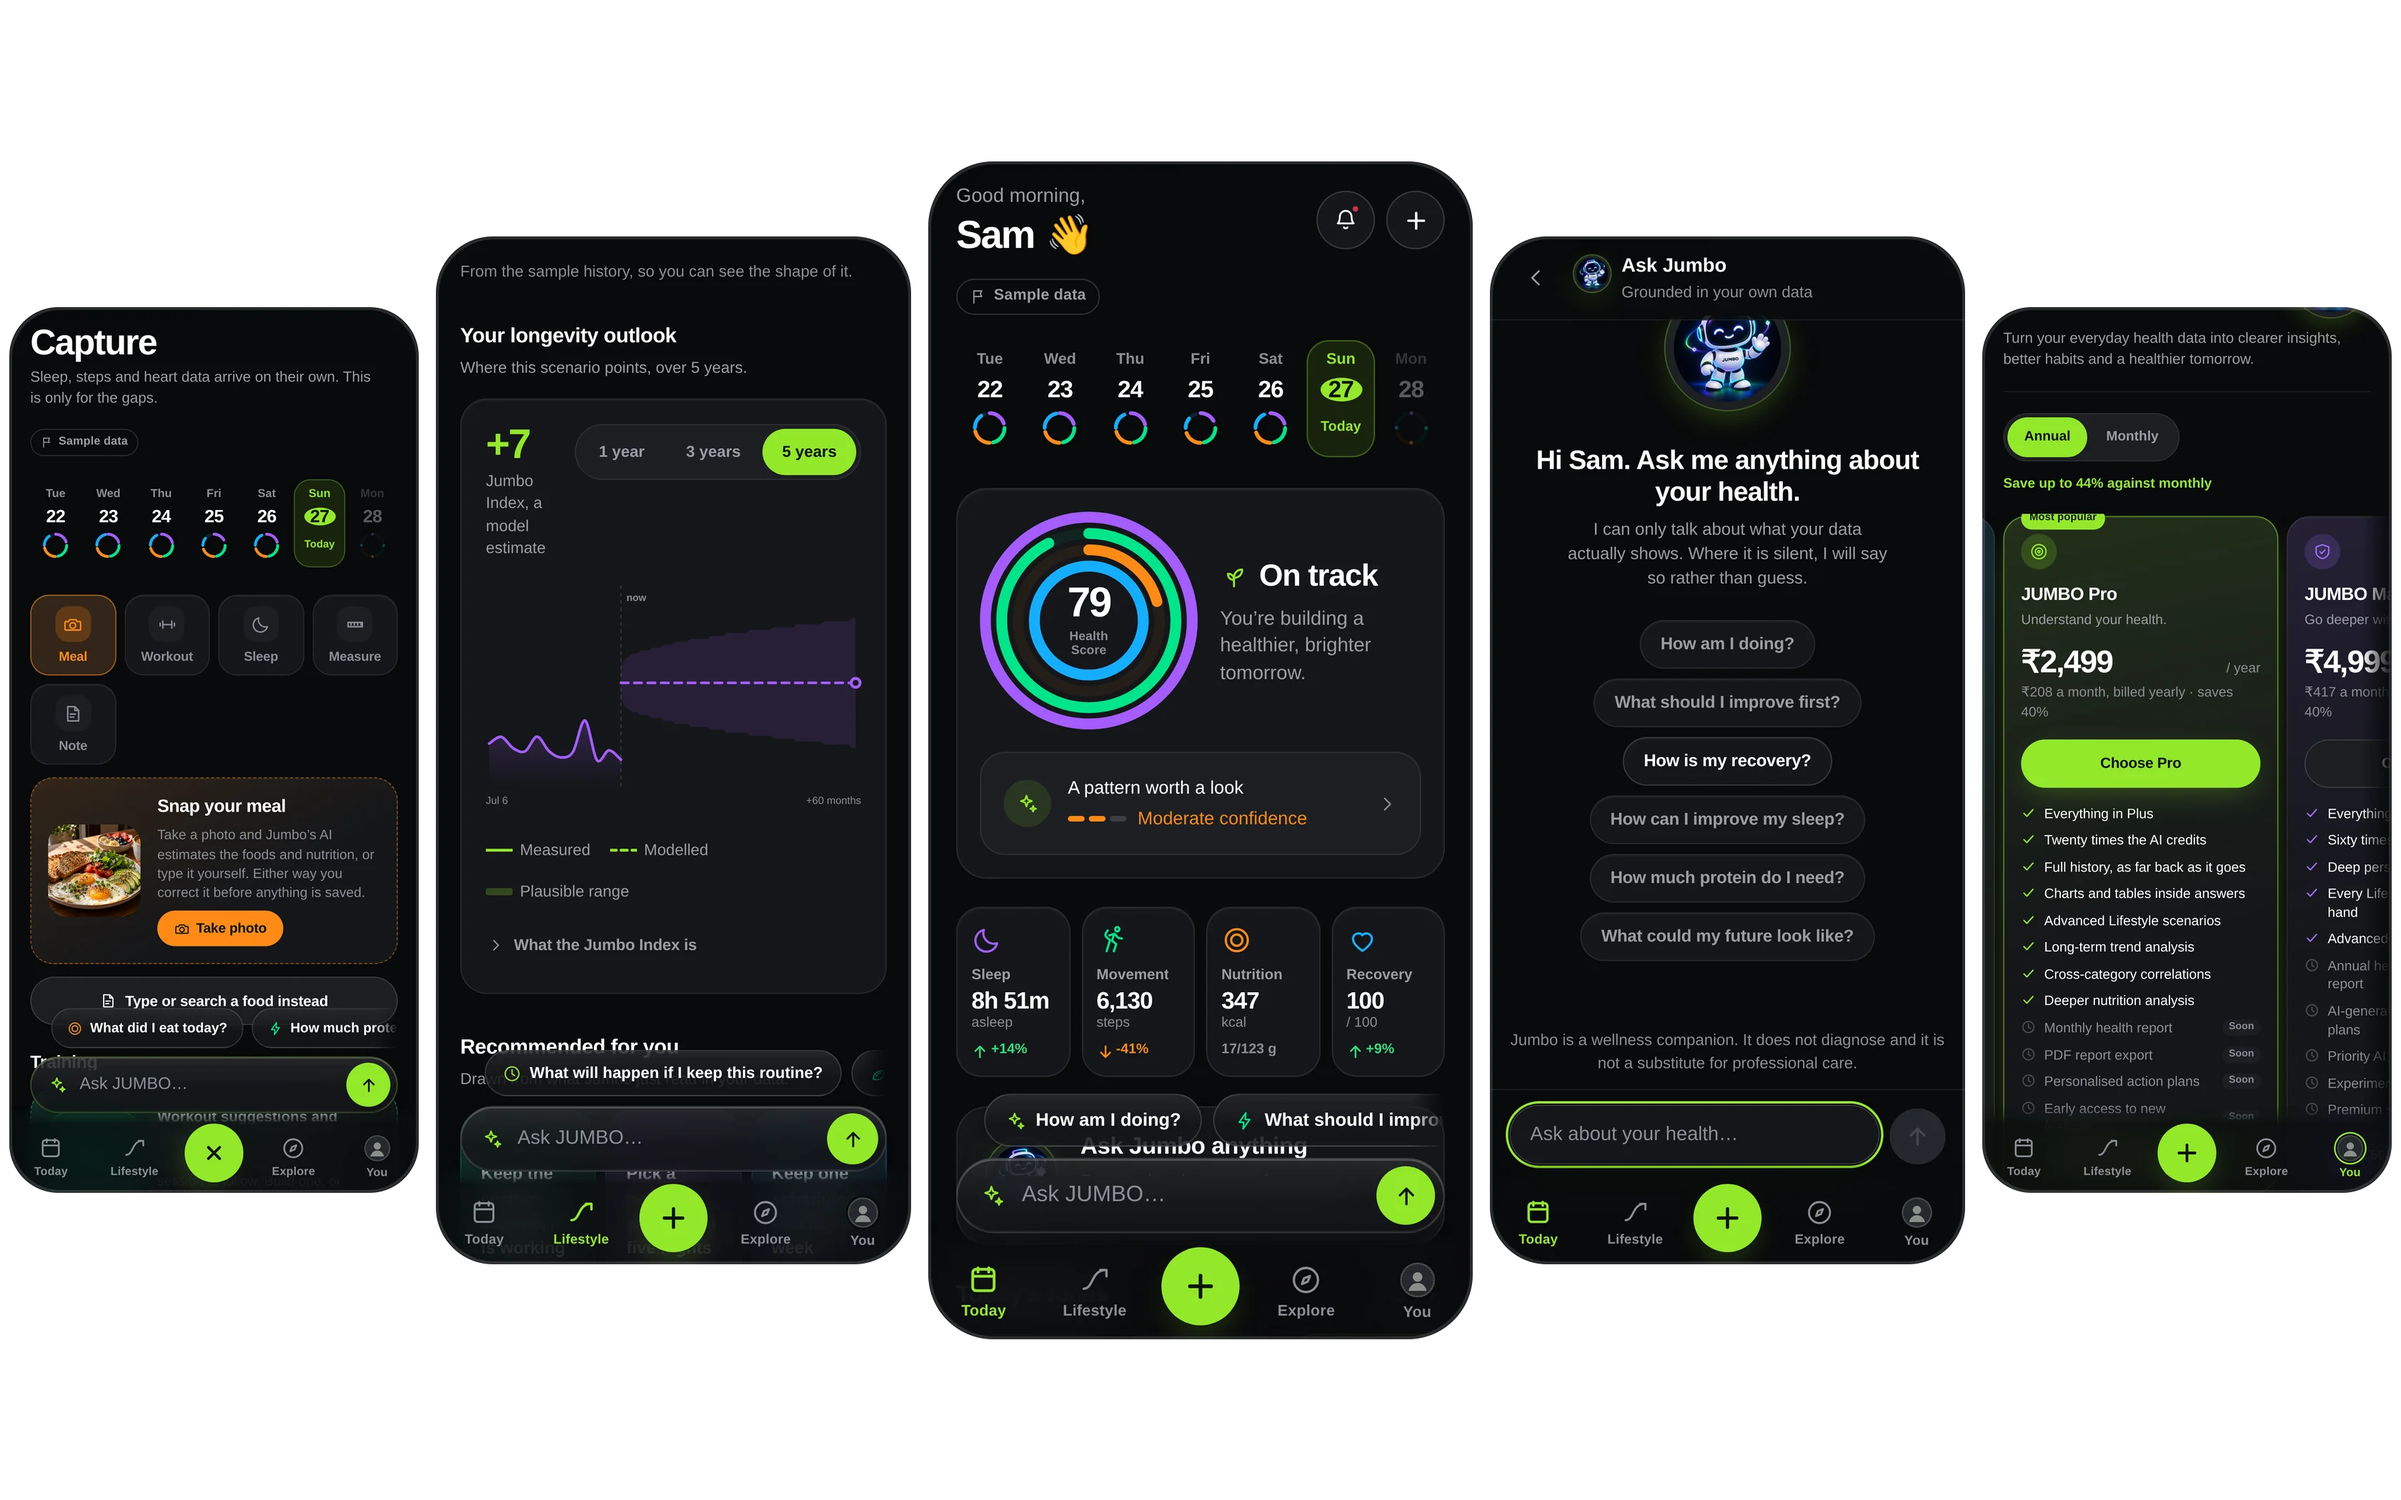
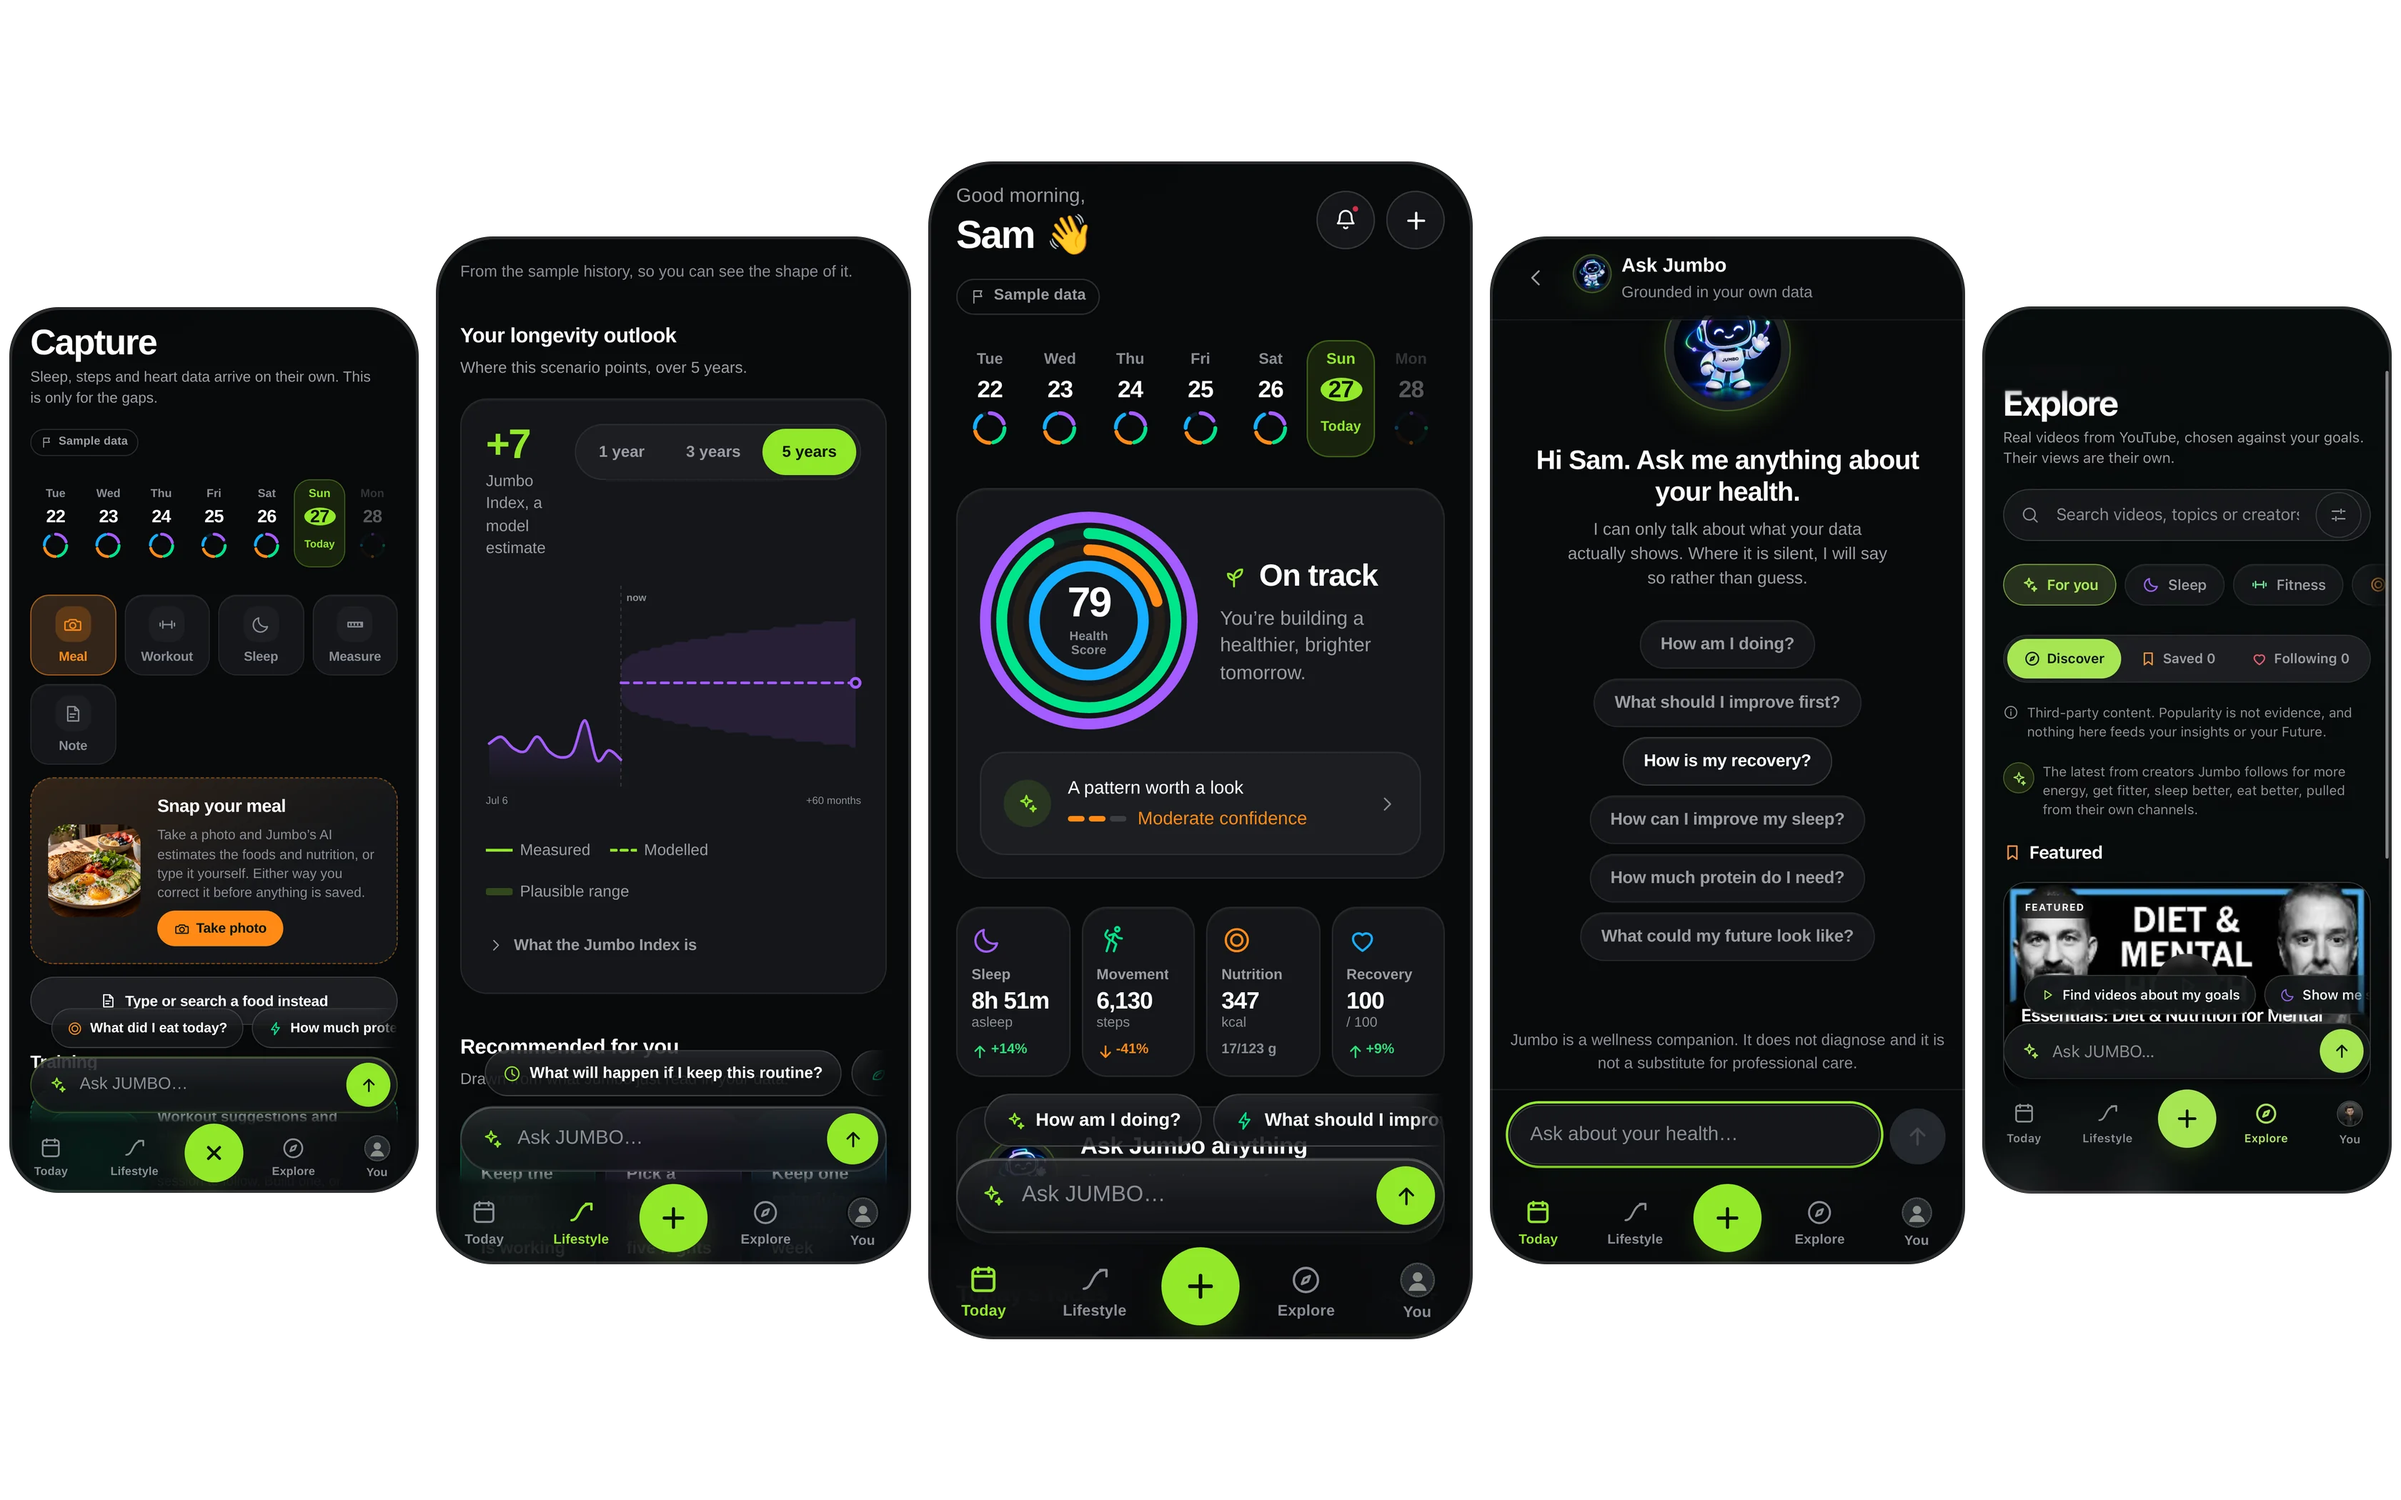
JUMBO page: Explore in the hero, no paid prices shown
- Hero: the right-hand phone is now Explore instead of the Plans screen.
- Pro section: the Plans screen shows the JUMBO Free card (the paid
  cards peeking in from the side are hidden in the capture), and the
  price text is replaced with "Free to start, with 25 AI credits a
  month". No paid amounts appear anywhere on the page.

Claude-Session: https://claude.ai/code/session_01Jfo4YiUXPoq1QTHMtNJNaB

Changed region(s): [[0.8125, 0.2167, 1.0, 0.8048]]

diff --git a/src/jumbo/sections/Pro.tsx b/src/jumbo/sections/Pro.tsx
@@ -4,20 +4,12 @@ import UiSlot from '../components/UiSlot';
 import { CountUp, Drift, Float, Reveal, Words } from '../components/Motion';
 import { GetJumbo } from '../components/Buttons';
 
-const money = new Intl.NumberFormat(PRO_PLAN.locale, {
-  style: 'currency',
-  currency: PRO_PLAN.currency,
-  maximumFractionDigits: 0,
-});
 const count = new Intl.NumberFormat(PRO_PLAN.locale);
 const formatCount = (n: number) => count.format(n);
-const formatMoney = (n: number) => money.format(n);
-
-// Worked out from the two prices, so the claim can never drift from them.
-const saving = Math.round(((PRO_PLAN.monthly * 12 - PRO_PLAN.yearly) / (PRO_PLAN.monthly * 12)) * 100);
 
 /**
- * Value first, then the product, then credits, then price, then the action.
+ * Value first, then the product, then credits, then how to start (free), then
+ * the action. No prices on the page: visitors start free.
  * DOM order is that story; on desktop the visual moves to the left column.
  */
 const Pro: React.FC = () => (
@@ -62,15 +54,11 @@ const Pro: React.FC = () => (
             </p>
           </div>
           <div>
-            <p className="text-5xl font-semibold tracking-tight tabular-nums">
-              <CountUp value={PRO_PLAN.monthly} format={formatMoney} />
-              <span className="text-lg font-medium text-ink-3"> / month</span>
-            </p>
-            <p className="mt-2 text-sm font-semibold text-ink">
-              or {money.format(PRO_PLAN.yearly)} a year, save {saving}%
-            </p>
+            <p className="text-5xl font-semibold tracking-tight">Free</p>
+            <p className="mt-2 text-sm font-semibold text-ink">to start, with {PRO_PLAN.freeCredits} AI credits a month</p>
             <p className="mt-3 text-sm leading-relaxed text-ink-3">
-              Not ready for Pro? JUMBO Free includes {PRO_PLAN.freeCredits} AI credits a month.
+              Daily rings, meal photo analysis and Ask JUMBO are all included. Move to Pro when you want
+              more.
             </p>
           </div>
         </div>

diff --git a/src/jumbo/config.ts b/src/jumbo/config.ts
@@ -125,7 +125,7 @@ export const ASSETS = {
   },
   pro: {
     src: '/assets/jumbo/jumbo-pro-ui.webp',
-    alt: 'JUMBO Plans screen with the JUMBO Pro plan, its price and what it includes',
+    alt: 'JUMBO Plans screen showing the JUMBO Free plan and what it includes',
     label: 'JUMBO Pro visual',
     shape: 'phone',
     width: 1170,
